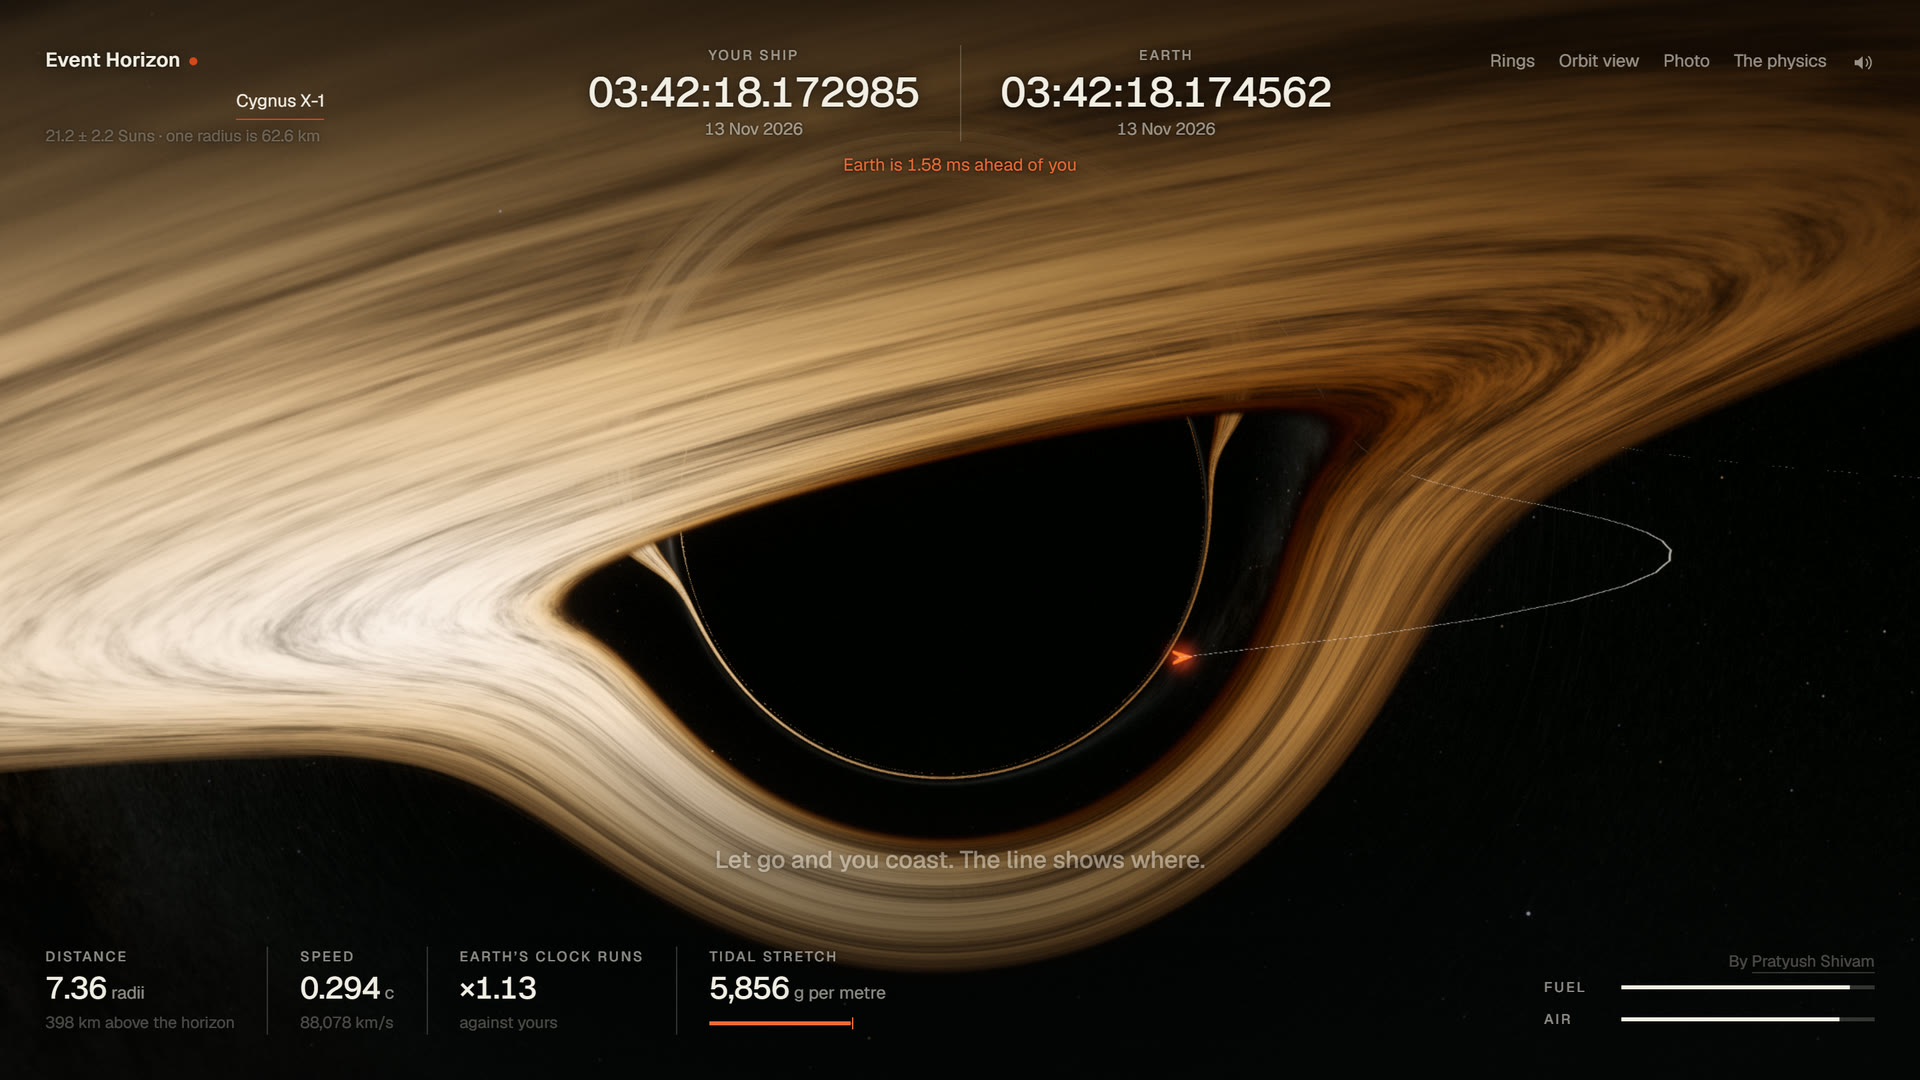
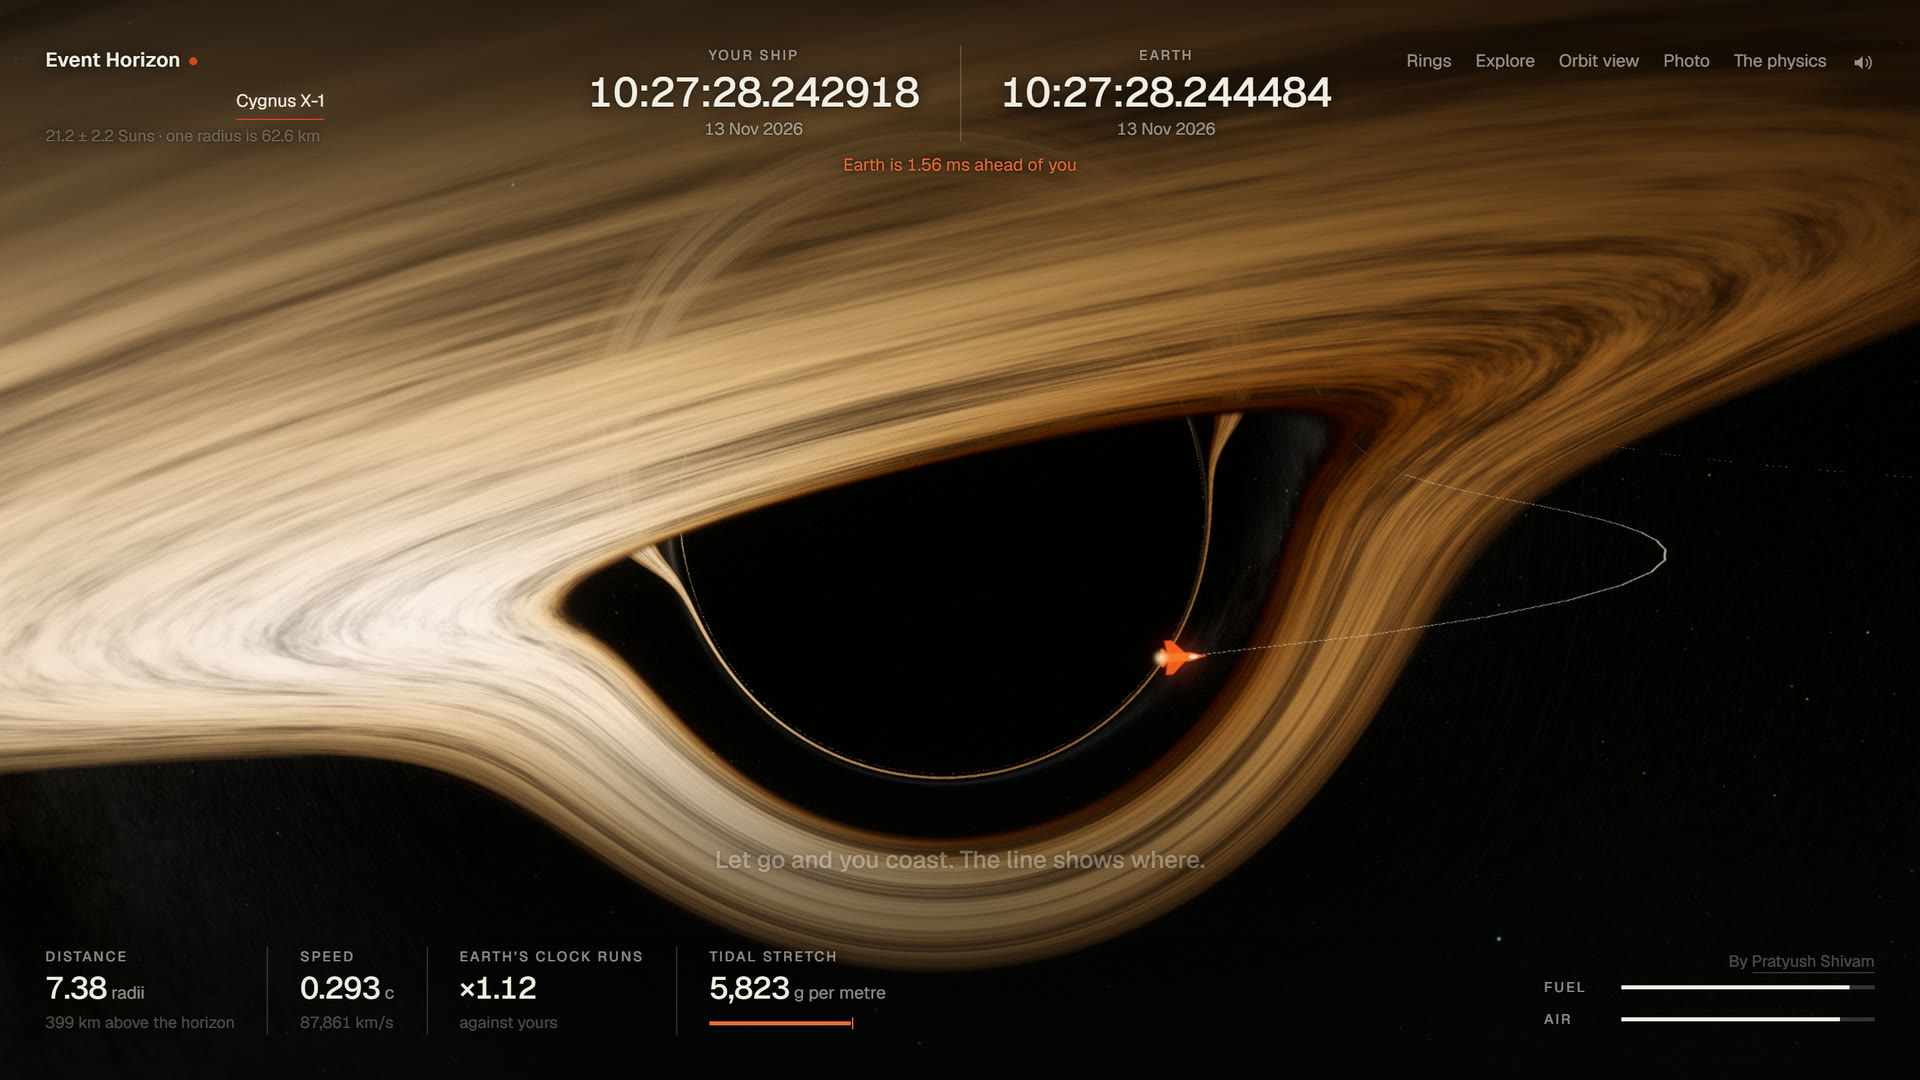
README and captures for the explore view, the new ship and the sound

diff --git a/README.md b/README.md
@@ -23,7 +23,9 @@
 
 The picture is not a painting or a video. For every pixel, every frame, a ray of light is followed backwards through curved spacetime on your graphics card, so what you see is what a camera there would see: the black shadow, the thin ring of light around it, the far side of the disk bent up over the top.
 
-You start in orbit at a station. Brake and you fall towards the hole. The lower and faster you fly, the slower your clock runs against Earth's. Climb back out and the end card tells you how long you were gone, what date it now is at home, and what you missed. Go too low and you find out what the horizon is.
+The page opens on the view alone. Drag to look around it, scroll to move closer, and listen: the nearer you go, the colder it sounds, and inside the horizon there is no light and no sound at all. Then press **Play the game**.
+
+In the game you start in orbit at a station. Brake and you fall towards the hole. The lower and faster you fly, the slower your clock runs against Earth's. Climb back out and the end card tells you how long you were gone, what date it now is at home, and what you missed. Go too low and you find out what the horizon is.
 
 **Fly:** [pratyushshivam.github.io/event-horizon](https://pratyushshivam.github.io/event-horizon/)
 
@@ -31,11 +33,11 @@ You start in orbit at a station. Brake and you fall towards the hole. The lower 
 
 <p align="center"><sub>Eight seconds of one pass at about four radii from Sagittarius A*, recorded from the running page at real speed. Watch the two clocks at the top.</sub></p>
 
-There is nothing to read first. The page opens on the view with one line of words and a ghost finger showing the one control. There is no account, no server and no tracking. The code is about 30 kB; the sky it flies under is real and weighs 1.7 MB.
+There is nothing to read first. The page opens on the black hole with one line of words, drag to look around, and one button. The game adds one more line and a ghost finger showing the one control. There is no account, no server and no tracking. The code is about 30 kB; the sky it flies under is real and weighs 1.7 MB.
 
 <table>
 <tr>
-<td width="50%" valign="top"><img src="assets/first.gif" width="100%" alt="The first seconds. The black hole and its disk fill the screen, the ship sits in orbit, and one line says hold left to fall towards it, hold right to climb. The engine fires and the dashed circle of the orbit bends inward into a new path."><br><sub><b>The first seconds.</b> One line of words. Hold the key, the path ahead bends, let go and you coast along it.</sub></td>
+<td width="50%" valign="top"><img src="assets/first.gif" width="100%" alt="The first seconds. The black hole and its disk fill the screen under the words drag to look around and a button, Play the game. The view is dragged round the hole, the button is pressed, the camera glides down behind a small orange ship and the clocks and instruments appear."><br><sub><b>The first seconds.</b> Look around first. Play the game, and the camera glides down to the ship.</sub></td>
 <td width="50%" valign="top"><img src="assets/fall.gif" width="100%" alt="Falling in. The ship drops towards the shadow, the clock ratio climbs without limit, then the view cuts to outside: the ship is a dim red mark frozen at the edge of the shadow, fading."><br><sub><b>Too low.</b> The view cuts to what the station sees: your ship slowing, reddening and fading at the horizon, never crossing.</sub></td>
 </tr>
 <tr>
@@ -52,6 +54,7 @@ There is nothing to read first. The page opens on the view with one line of word
 
 | | |
 | :-- | :-- |
+| **Explore** | Where the page opens. Drag to look around, scroll or pinch to move in and out, as far as the inside of the horizon, where everything goes black and silent. **Play the game** starts a run; **Explore** in the top bar brings you back |
 | **Fall** | Hold `←` (or drag left and hold). The engine brakes, and the orbit drops towards the hole |
 | **Climb** | Hold `→` (or drag right). The engine pushes you along your orbit, and the far side of it rises |
 | **In and out** | `↑` pushes straight at the hole, `↓` straight away. You rarely need them |
@@ -64,9 +67,13 @@ There is nothing to read first. The page opens on the view with one line of word
 | **Rings** `R` | Names the horizon, the photon sphere and the innermost stable orbit |
 | **Orbit view** `V` | Step back and drag to look around. Keys still fly the ship |
 | **Photo** `P` | Hides everything, frees the camera, saves a 4K still |
-| **Sound** `M` | A bed that deepens as you go lower, and two ticks, your second and Earth's, drifting apart. Silence at the horizon |
+| **Sound** `M` | Made in the page, no recordings. A low bed that sinks as you go in; closer, a cluster of voices a semitone apart and a howl of filtered noise, with a pulse that quickens. In the game, two ticks, your second and Earth's, drifting apart. Inside the horizon, silence |
 
 The first run that works is one long brake, then nothing: the ship swings past the hole and coasts back to the ring on its own. Everything after that is nerve. Brake again at the bottom and you stay low, where the clocks run furthest apart, and have to buy your way back out.
+
+<a href="https://pratyushshivam.github.io/event-horizon/"><img src="assets/screens/explore.jpg" width="100%" alt="Where the page opens: the black hole and its disk with the Milky Way behind, a small orange ship in orbit, the words drag to look around, scroll or pinch to move closer, and one button, Play the game."></a>
+
+<p align="center"><sub>Where the page opens. Left alone, the view turns slowly on its own.</sub></p>
 
 ## Photographs
 
@@ -93,7 +100,7 @@ Photo mode stops time, hides the interface and frees the camera. Drag to look, s
 
 <table>
 <tr>
-<td width="33%" valign="top"><img src="assets/screens/phone-start.jpg" width="100%" alt="The opening at phone width: the black hole and disk in the middle, two clocks above, one line of instruction with a ghost finger, four instruments below."></td>
+<td width="33%" valign="top"><img src="assets/screens/phone-start.jpg" width="100%" alt="The opening at phone width: the black hole and disk in the middle, the words drag to look around, and the Play the game button."></td>
 <td width="33%" valign="top"><img src="assets/screens/phone-flight.jpg" width="100%" alt="Mid dive at phone width: the shadow fills the screen under the disk, and the clocks are minutes apart."></td>
 <td width="33%" valign="top"><img src="assets/screens/phone-end.jpg" width="100%" alt="The end card at phone width: Home, your clock, Earth's clock, and the minutes stolen."></td>
 </tr>
@@ -252,11 +259,16 @@ Measured in desktop Chrome on one laptop, flying a dive:
 - **The holes do not spin.** Real ones do. Spin flattens one side of the shadow, drags space round with it and moves the inner edge of the disk. That is the Kerr metric, and it is not here.
 - **The disk is a thin opaque sheet** with no thickness, and no light bouncing off it.
 - **The colours are chosen.** The physics of colour is right (blackbody, shifted by g, brightness by g⁴) but the temperature scale is set for eyes.
-- **The camera hovers.** It does not share the ship's speed, so the view is not squeezed forwards and brightened by the ship's own motion, and it never crosses the horizon. The ending tells you what you would see instead of showing it.
+- **The camera hovers.** It does not share the ship's speed, so the view is not squeezed forwards and brightened by the ship's own motion. Nothing can hover inside the horizon, so moving the camera in there simply shows black. The ending of a run tells you what you would see instead of showing it.
+- **The hole stands still.** Real black holes move, as everything does, but there is no drifting past the stars to see: see the note below.
 - **The sky is Earth's sky**, placed around each hole, with the even haze of unresolved stars taken off so that empty sky is black.
 - **The engine is absurd.** It gives 0.003 c²/r<sub>s</sub> at every hole so the flight feels the same. Around M87* that is 1.4 g. Around Sagittarius A* it is about 2,200 g, and around Cygnus X-1 far more. The ship is also drawn thousands of kilometres long.
 - **The tidal gauge** uses the stretch on a body falling straight in, and the hull's limit of 10,000 g per metre is a choice.
 - **Time is sped up or slowed** to five r<sub>s</sub>/c per second of play: about 210 times faster than life at Sagittarius A*, a thousand times slower at Cygnus X-1.
+
+### Does the black hole move?
+
+Yes. Sagittarius A* is carried round with the whole galaxy, and the galaxy itself moves at several hundred kilometres a second against the background of the universe. But motion only shows against something nearby, and the nearest stars are light years away. At 600 km/s it would take about 500 years to cross a single light year, so from beside the hole the sky would not visibly drift in a lifetime. What you would see moving is what the page shows: the disk turning, the ship and station orbiting, and the sky sliding as you yourself go round.
 
 ## Run it
 
